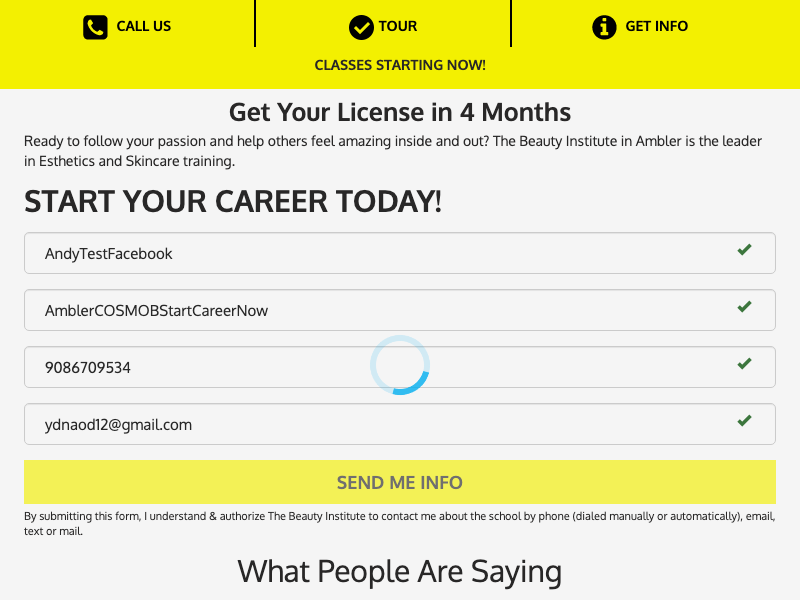
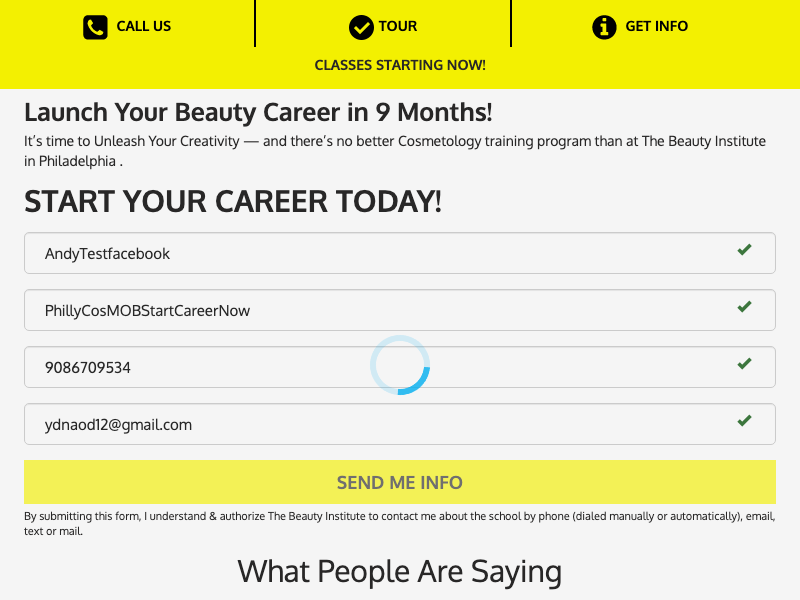
add landing page functionality

Changed region(s): [[0.0312, 0.15, 0.9688, 0.3], [0.0625, 0.51, 0.3438, 0.54], [0.125, 0.39, 0.2188, 0.45]]

diff --git a/mobileAmblerLP1.js b/mobileAmblerLP1.js
@@ -8,16 +8,50 @@ const testForms = async () => {
   const browser = await puppeteer.launch();
   const page = await browser.newPage();
   //await page.goto('http://m.thebeautyinstituteskp.edu/campus/ambler-beauty-schools?lead_src=google-mobile');
-  await page.goto('http://m.thebeautyinstituteskp.edu/campus/ambler-beauty-schools/cosmetology?lead_src=facebook-mobile');
-  await page.type('#ambler_firstname', 'AndyTestFacebook'); 
-  await page.type('#ambler_lastname', 'AmblerCOSMOBStartCareerNow'); 
+  //await page.goto('http://m.thebeautyinstituteskp.edu/campus/ambler-beauty-schools/cosmetology?lead_src=facebook-mobile');
+  await page.goto('http://m.thebeautyinstituteskp.edu/campus/ambler-beauty-schools/esthetics?lead_src=google-mobile');
+  await page.type('#ambler_firstname', 'AndyTestGoogle'); 
+  await page.type('#ambler_lastname', 'AmblerSkinMOBStartCareerNow'); 
   await page.type('#ambler_phone', '9086709534'); 
   await page.type('#ambler_email', 'ydnaod12@gmail.com'); 
-  await page.type('#ambler_interest_id', 'Cosmetology'); 
 
   await page.click('#bt_submit');
   console.log('lets gooo');
   await page.screenshot({path: 'ambler.png'});
+  await page.waitForTimeout(10000);
+
+  await page.goto('http://m.thebeautyinstituteskp.edu/campus/ambler-beauty-schools/cosmetology?lead_src=google-mobile');
+  await page.type('#ambler_firstname', 'AndyTestGoogle'); 
+  await page.type('#ambler_lastname', 'AmblerCosMOBStartCareerNow'); 
+  await page.type('#ambler_phone', '9086709534'); 
+  await page.type('#ambler_email', 'ydnaod12@gmail.com'); 
+
+  await page.click('#bt_submit');
+  console.log('lets gooo');
+  await page.screenshot({path: 'ambler.png'});
+  await page.waitForTimeout(10000);
+
+  await page.goto('http://m.thebeautyinstituteskp.edu/campus/philadelphia-beauty-schools/esthetics?lead_src=google-mobile');
+  await page.type('#ambler_firstname', 'AndyTestGoogle'); 
+  await page.type('#ambler_lastname', 'PhillySkinMOBStartCareerNow'); 
+  await page.type('#ambler_phone', '9086709534'); 
+  await page.type('#ambler_email', 'ydnaod12@gmail.com'); 
+
+  await page.click('#bt_submit');
+  console.log('lets gooo');
+  await page.screenshot({path: 'ambler.png'});
+  await page.waitForTimeout(10000);
+
+  await page.goto('http://m.thebeautyinstituteskp.edu/campus/philadelphia-beauty-schools/cosmetology?lead_src=google-mobile');
+  await page.type('#ambler_firstname', 'AndyTestGoogle'); 
+  await page.type('#ambler_lastname', 'PhillyCosMOBStartCareerNow'); 
+  await page.type('#ambler_phone', '9086709534'); 
+  await page.type('#ambler_email', 'ydnaod12@gmail.com'); 
+
+  await page.click('#bt_submit');
+  console.log('lets gooo');
+  await page.screenshot({path: 'ambler.png'});
+  await page.waitForTimeout(10000);
   // other actions...
   await browser.close();
 };

diff --git a/mobileAmblerLP2.js b/mobileAmblerLP2.js
@@ -7,16 +7,50 @@ const puppeteer = require('puppeteer');
 const testForms = async () => {
   const browser = await puppeteer.launch();
   const page = await browser.newPage();
-  //await page.goto('http://m.thebeautyinstituteskp.edu/campus/ambler-beauty-schools?lead_src=google-mobile');
+  //await page.goto('http://m.thebeautyinstituteskp.edu/campus/ambler-beauty-schools?lead_src=facebook-mobile');
   await page.goto('http://m.thebeautyinstituteskp.edu/campus/ambler-beauty-schools/esthetics?lead_src=facebook-mobile');
-  await page.type('#ambler_firstname', 'AndyTestFacebook'); 
-  await page.type('#ambler_lastname', 'AmblerCOSMOBStartCareerNow'); 
+  await page.type('#ambler_firstname', 'AndyTestfacebook'); 
+  await page.type('#ambler_lastname', 'AmblerSkinMOBStartCareerNow'); 
+  await page.type('#ambler_phone', '9086709534'); 
+  await page.type('#ambler_email', 'ydnaod12@gmail.com'); 
+
+  await page.click('#bt_submit');
+  console.log('lets gooo!');
+  await page.screenshot({path: 'ambler.png'});
+  await page.waitForTimeout(10000);
+
+  await page.goto('http://m.thebeautyinstituteskp.edu/campus/ambler-beauty-schools/cosmetology?lead_src=facebook-mobile');
+  await page.type('#ambler_firstname', 'AndyTestfacebook'); 
+  await page.type('#ambler_lastname', 'AmblerCosMOBStartCareerNow'); 
   await page.type('#ambler_phone', '9086709534'); 
   await page.type('#ambler_email', 'ydnaod12@gmail.com'); 
 
   await page.click('#bt_submit');
   console.log('lets gooo');
   await page.screenshot({path: 'ambler.png'});
+  await page.waitForTimeout(10000);
+
+  await page.goto('http://m.thebeautyinstituteskp.edu/campus/philadelphia-beauty-schools/esthetics?lead_src=facebook-mobile');
+  await page.type('#ambler_firstname', 'AndyTestfacebook'); 
+  await page.type('#ambler_lastname', 'PhillySkinMOBStartCareerNow'); 
+  await page.type('#ambler_phone', '9086709534'); 
+  await page.type('#ambler_email', 'ydnaod12@gmail.com'); 
+
+  await page.click('#bt_submit');
+  console.log('lets gooo');
+  await page.screenshot({path: 'ambler.png'});
+  await page.waitForTimeout(10000);
+
+  await page.goto('http://m.thebeautyinstituteskp.edu/campus/philadelphia-beauty-schools/cosmetology?lead_src=facebook-mobile');
+  await page.type('#ambler_firstname', 'AndyTestfacebook'); 
+  await page.type('#ambler_lastname', 'PhillyCosMOBStartCareerNow'); 
+  await page.type('#ambler_phone', '9086709534'); 
+  await page.type('#ambler_email', 'ydnaod12@gmail.com'); 
+
+  await page.click('#bt_submit');
+  console.log('lets gooo');
+  await page.screenshot({path: 'ambler.png'});
+  await page.waitForTimeout(10000);
   // other actions...
   await browser.close();
 };
